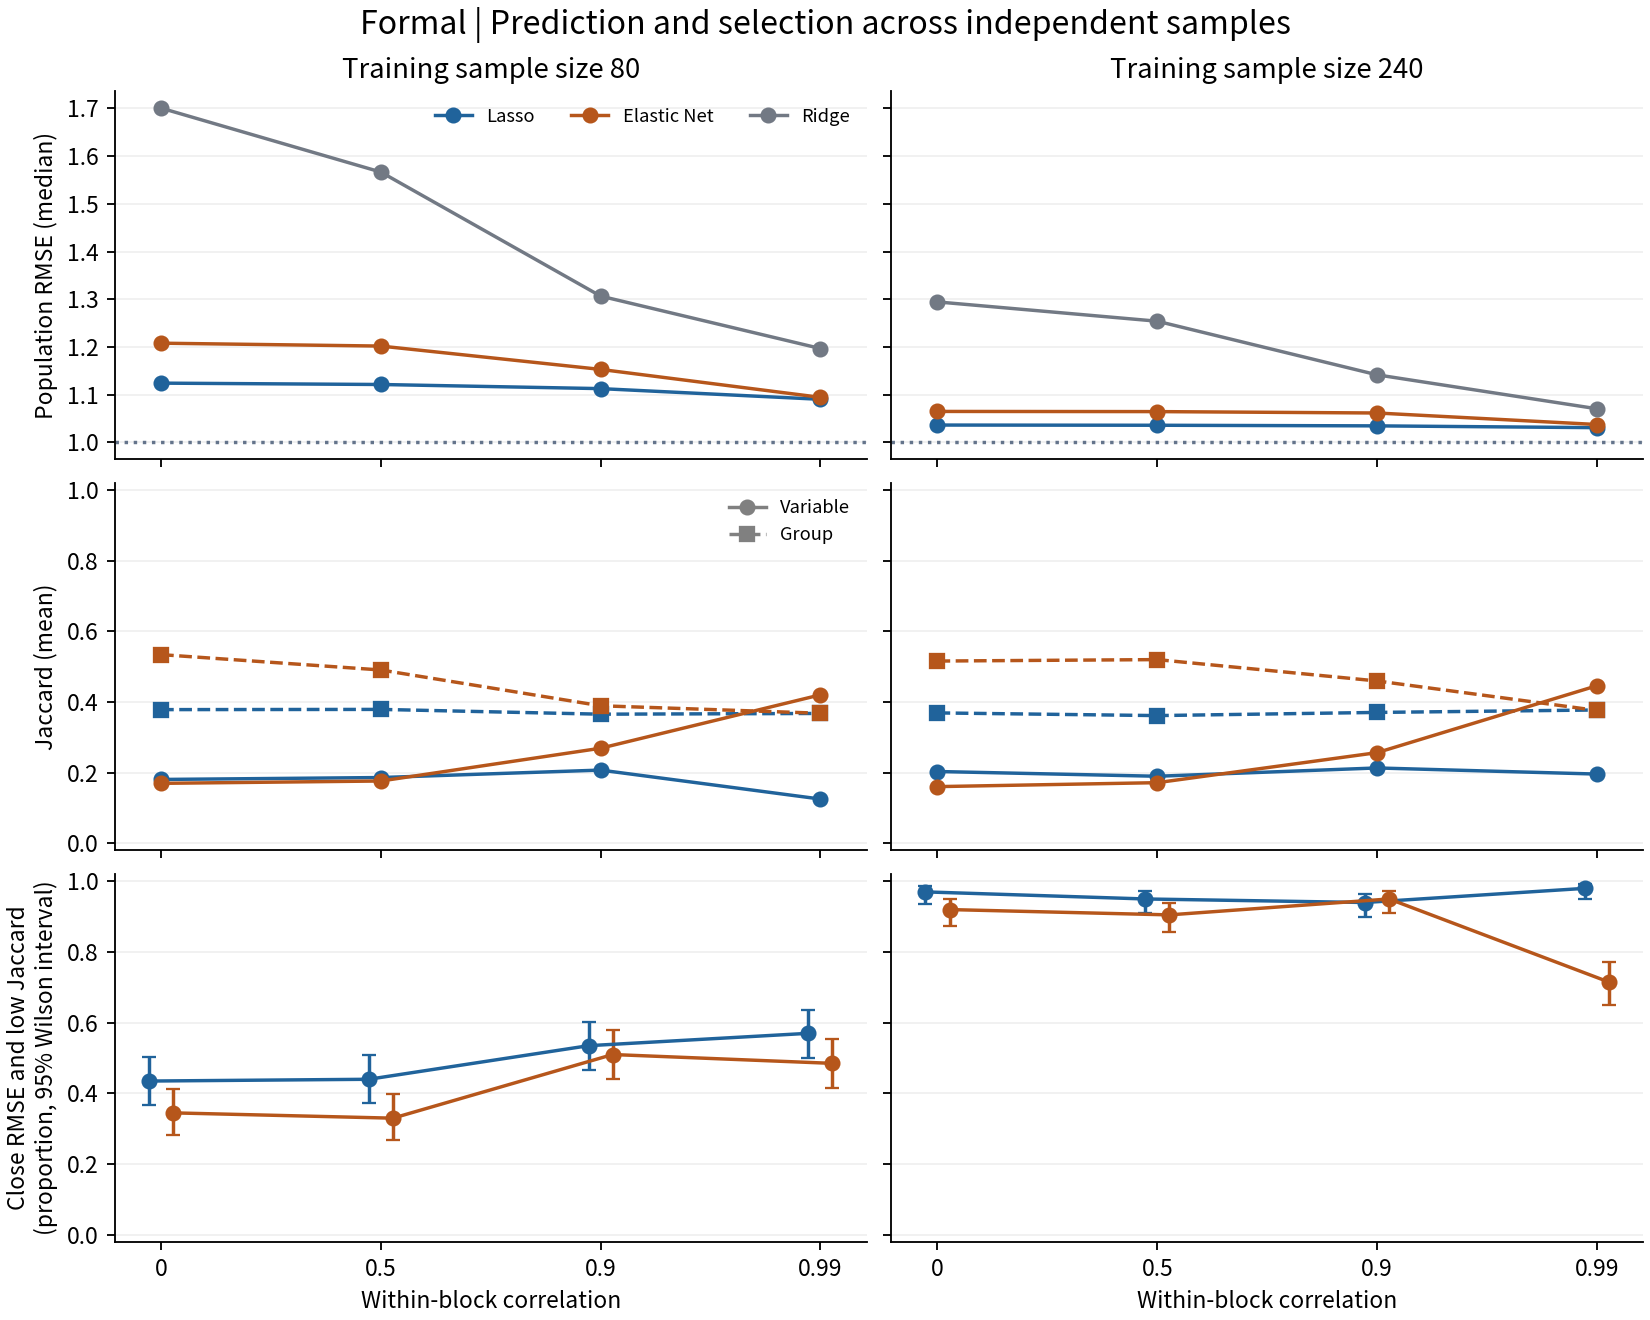
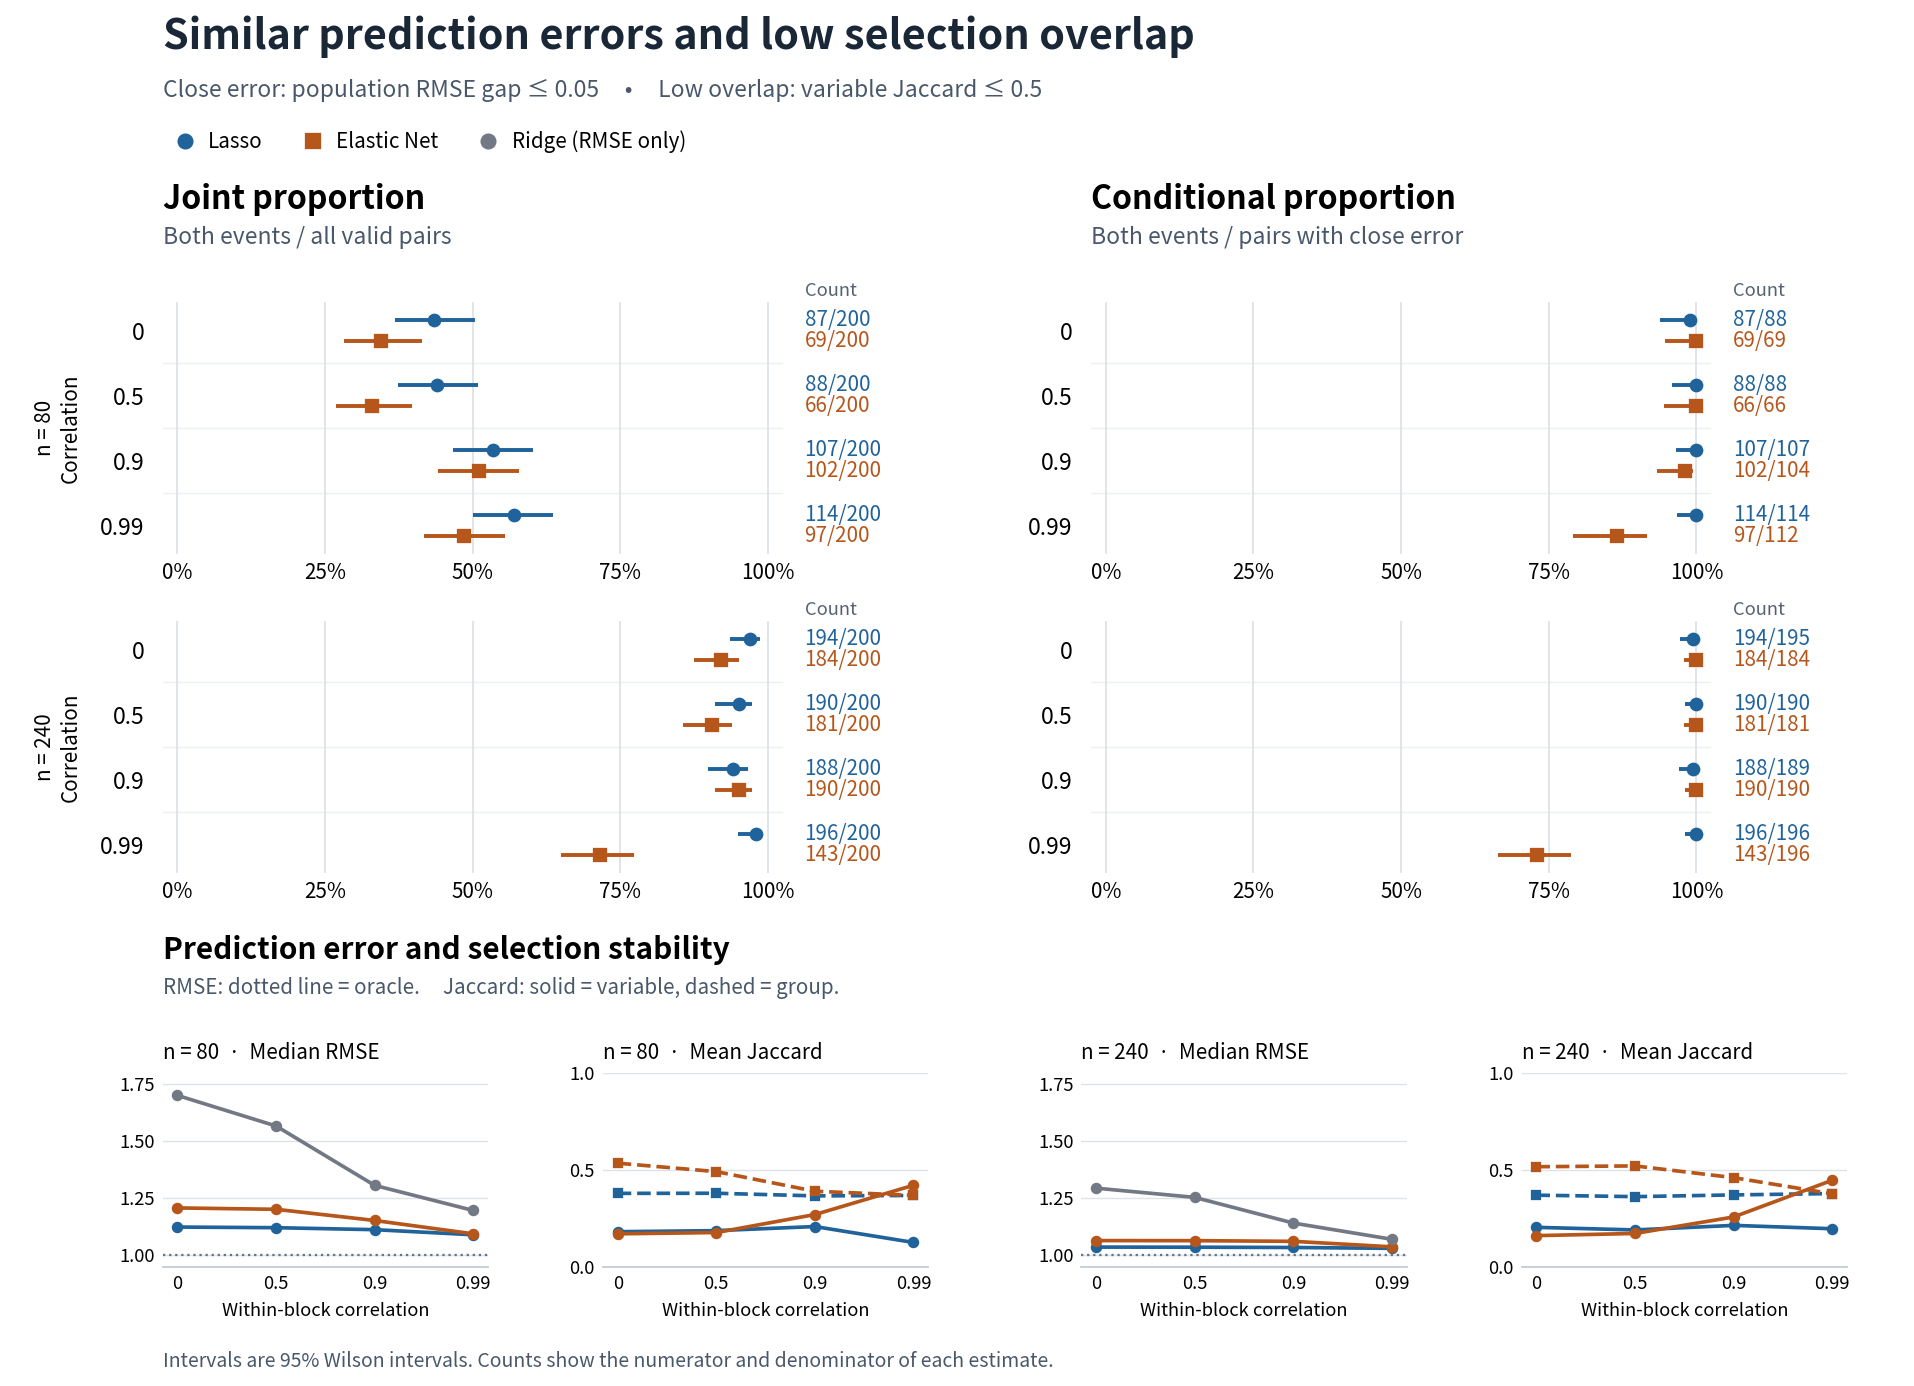
Show joint and conditional probabilities side by side with counts

diff --git a/src/main_figure.py b/src/main_figure.py
@@ -1,0 +1,123 @@
+"""Render the formal figure from its condition table, with explicit event denominators."""
+import argparse
+from pathlib import Path
+
+import matplotlib
+matplotlib.use("Agg")
+import matplotlib.pyplot as plt
+from matplotlib.lines import Line2D
+from matplotlib.ticker import PercentFormatter
+import numpy as np
+import pandas as pd
+
+from common import ROOT
+from summarize import COLORS, wilson
+
+
+METHODS = ("lasso", "elastic")
+RHO = [0, .5, .9, .99]
+RHO_LABELS = ["0", "0.5", "0.9", "0.99"]
+
+
+def event_panel(ax, frame, denominator, show_rho):
+    for method, offset in zip(METHODS, [-.16, .16]):
+        data = frame[frame.method == method].sort_values("rho_signal")
+        for i, row in enumerate(data.itertuples()):
+            hits, total = int(row.both_n), int(getattr(row, denominator))
+            y = i + offset
+            label = f"{hits}/{total}" if total else "0/0 (n.e.)"
+            ax.text(1.035, y, label, transform=ax.get_yaxis_transform(), va="center",
+                    color=COLORS[method], fontsize=9, clip_on=False)
+            if total:
+                rate = hits / total
+                lo, hi = wilson(hits, total)
+                ax.hlines(y, lo, hi, color=COLORS[method], linewidth=1.7)
+                ax.plot(rate, y, "o" if method == "lasso" else "s",
+                        color=COLORS[method], markersize=5)
+    ax.set_xlim(-.025, 1.025)
+    ax.set_ylim(3.44, -.44)
+    ax.set_xticks([0, .25, .5, .75, 1])
+    ax.xaxis.set_major_formatter(PercentFormatter(xmax=1, decimals=0))
+    ax.set_yticks(range(4), RHO_LABELS)
+    ax.tick_params(axis="y", labelleft=show_rho, length=0, pad=8)
+    ax.tick_params(axis="x", length=0, labelsize=9)
+    ax.grid(axis="x", color="#d9dfe6", lw=.7)
+    for y in [.5, 1.5, 2.5]:
+        ax.axhline(y, color="#eef1f4", lw=.65, zorder=0)
+    ax.text(1.035, 1.025, "Count", transform=ax.transAxes, color="#536170", fontsize=8)
+    ax.set_axisbelow(True)
+    ax.spines[:].set_visible(False)
+
+
+def diagnostics(ax, frame, metric):
+    for method in (*METHODS, "ridge"):
+        z = frame[frame.method == method].sort_values("rho_signal")
+        if metric == "rmse":
+            ax.plot(range(4), z.rmse_q50, "o-", lw=1.6, ms=4, color=COLORS[method])
+        elif method in METHODS:
+            ax.plot(range(4), z.j_var_mean, "o-", lw=1.6, ms=4, color=COLORS[method])
+            ax.plot(range(4), z.j_group_mean, "s--", lw=1.6, ms=3.5, color=COLORS[method])
+    if metric == "rmse":
+        ax.set_ylim(.95, 1.8)
+        ax.set_yticks([1, 1.25, 1.5, 1.75])
+        ax.axhline(1, ls=":", color="#64748b", lw=1)
+    else:
+        ax.set_ylim(0, 1)
+        ax.set_yticks([0, .5, 1])
+    ax.set_xticks(range(4), RHO_LABELS)
+    ax.set_xlabel("Within-block correlation", fontsize=8)
+    ax.tick_params(labelsize=8, length=0)
+    ax.grid(axis="y", color="#dee3e8", lw=.6)
+    ax.spines[["top", "right", "left"]].set_visible(False)
+    ax.spines["bottom"].set_color("#c5cdd5")
+
+
+def plot_formal(frame, destination):
+    equal = frame[frame.rho_signal == frame.rho_null]
+    for n in (80, 240):
+        for method in (*METHODS, "ridge"):
+            subset = equal[(equal.n == n) & (equal.method == method)]
+            if sorted(subset.rho_signal) != RHO:
+                raise ValueError(f"Missing or duplicate formal conditions for {n}, {method}")
+    fig = plt.figure(figsize=(11.6, 8.4), facecolor="white")
+    fig.text(.085, .965, "Similar prediction errors and low selection overlap",
+             fontsize=18, weight="bold", color="#192736")
+    fig.text(.085, .93, "Close error: population RMSE gap ≤ 0.05     •     Low overlap: variable Jaccard ≤ 0.5",
+             fontsize=10, color="#48586a")
+    handles = [Line2D([], [], color=COLORS[m], marker=k, linestyle="none",
+                      label=t, markersize=6) for m, k, t in
+               [("lasso", "o", "Lasso"), ("elastic", "s", "Elastic Net"), ("ridge", "o", "Ridge (RMSE only)")]]
+    fig.legend(handles=handles, loc="upper left", bbox_to_anchor=(.076, .919),
+               frameon=False, ncol=3, handletextpad=.15, columnspacing=1.4, fontsize=9)
+    for left, title, subtitle in [(.085, "Joint proportion", "Both events / all valid pairs"),
+                                  (.57, "Conditional proportion", "Both events / pairs with close error")]:
+        fig.text(left, .849, title, fontsize=14, weight="bold")
+        fig.text(left, .824, subtitle, fontsize=10, color="#48586a")
+    for n, bottom in [(80, .60), (240, .37)]:
+        part = equal[equal.n == n]
+        for col, (left, denom) in enumerate([(.085, "total"), (.57, "close_n")]):
+            ax = fig.add_axes([left, bottom, .324, .182])
+            event_panel(ax, part, denom, show_rho=True)
+            if col == 0:
+                ax.set_ylabel(f"n = {n}\nCorrelation", fontsize=9, labelpad=8)
+    fig.text(.085, .308, "Prediction error and selection stability", fontsize=13, weight="bold")
+    fig.text(.085, .283, "RMSE: dotted line = oracle.     Jaccard: solid = variable, dashed = group.",
+             fontsize=9, color="#48586a")
+    for n, left in [(80, .085), (240, .565)]:
+        for metric, dx, title in [("rmse", 0, "Median RMSE"), ("jaccard", .230, "Mean Jaccard")]:
+            ax = fig.add_axes([left+dx, .086, .17, .14])
+            diagnostics(ax, equal[equal.n == n], metric)
+            ax.set_title(f"n = {n}  ·  {title}", fontsize=9, loc="left", pad=6)
+    fig.text(.085, .014, "Intervals are 95% Wilson intervals. Counts show the numerator and denominator of each estimate.",
+             fontsize=8.5, color="#48586a")
+    fig.savefig(destination, dpi=165)
+    plt.close(fig)
+
+
+if __name__ == "__main__":
+    default = ROOT / "results/formal/main"
+    parser = argparse.ArgumentParser(description=__doc__)
+    parser.add_argument("--conditions", type=Path, default=default / "conditions.csv")
+    parser.add_argument("--output", type=Path, default=default / "simulation.png")
+    args = parser.parse_args()
+    plot_formal(pd.read_csv(args.conditions), args.output)

diff --git a/src/formal_tables.py b/src/formal_tables.py
@@ -6,7 +6,8 @@ import pandas as pd
 
 from common import ROOT
 from formal import STAGES,load_config
-from summarize import sim_tables,sim_plot,credit_tables,save,wilson
+from main_figure import plot_formal
+from summarize import sim_tables,credit_tables,save,wilson
 
 
 def endpoint_table(p):
@@ -42,4 +43,4 @@ if __name__=="__main__":
             p=pd.read_csv(out/"pairs.csv")
             table=endpoint_table(p)
             if not table.empty: save(table,out,"endpoint_contrasts")
-            if stage=="main": sim_plot(s,out,"Formal")
+            if stage=="main": plot_formal(s,out/"simulation.png")

diff --git a/docs/review.md b/docs/review.md
@@ -6,7 +6,7 @@ Junyang selected the question and authorized the frozen design. At his request, 
 
 Each of the three unit signal coefficients multiplies a standardized variable from a different independent block. Their variances add to 3 for every within-block correlation. The oracle population RMSE is 1. At training size 80, the two extra controls change correlation only in the signal blocks or only in the null blocks. Their Lasso joint-event counts were 74/199 and 95/200, respectively, compared with 87/200 at independence and 107/200 when all blocks had correlation 0.9. The signal-only denominator records one failed Lasso path. [Frozen design](../config/frozen.json) · [Condition table](../results/formal/condition_summary.md)
 
-We checked the figure against the underlying counts. At training size 80, 87/88 close-risk Lasso pairs at independence and 107/107 at correlation 0.9 had low variable overlap. The lower-left panel thus rises from 43.5% to 53.5% mostly because more pairs satisfied the risk criterion. At size 240 the analogous joint frequencies were 97.0% and 94.0%. At size 80 and correlation 0.99, both fits found every signal block, yet whole-model group Jaccard averaged only 0.368 as different null groups entered. Variable Jaccard averaged 0.126. The figure and the condition table answer different parts of the question about recovery. [Figure 1](../results/formal/main/simulation.png) · [Conditional counts](../results/formal/main/thresholds.csv) · [Mechanism counts](../results/formal/mechanisms.csv)
+We checked the figure against the underlying counts. At training size 80, 87/88 close-risk Lasso pairs at independence and 107/107 at correlation 0.9 had low variable overlap. The joint proportion thus rises from 43.5% to 53.5% mostly because more pairs satisfied the risk criterion. At size 240 the analogous joint frequencies were 97.0% and 94.0%. At size 80 and correlation 0.99, both fits found every signal block, yet whole-model group Jaccard averaged only 0.368 as different null groups entered. Variable Jaccard averaged 0.126. The figure and the condition table answer different parts of the question about recovery. [Figure 1](../results/formal/main/simulation.png) · [Conditional counts](../results/formal/main/thresholds.csv) · [Mechanism counts](../results/formal/mechanisms.csv)
 
 ## What the robustness checks establish
 

diff --git a/docs/report.md b/docs/report.md
@@ -20,7 +20,7 @@ to population MSE, since the independent noise cross-term has expectation zero. 
 
 ![Formal simulation across the two sample sizes](../results/formal/main/simulation.png)
 
-**Figure 1.** Columns give training sample size. Rows show median population RMSE, mean variable and group Jaccard, and the joint-event proportion with a 95% Wilson interval. Each equal-correlation cell contains 200 independent pairs. The dotted reference is oracle RMSE. The four correlation levels are shown as ordered categories. [Full condition table including both mechanism controls](../results/formal/condition_summary.md)
+**Figure 1.** Each dot and interval estimates a proportion across independent training pairs (95% Wilson interval). The joint column divides the number of close-error, low-overlap pairs by all valid pairs. The conditional column divides the same numerator by the number with close error. The count beside each dot gives its exact numerator and denominator. Rows separate training samples of size 80 and 240. The bottom panels give median population RMSE and mean variable and group Jaccard. [Full condition table](../results/formal/condition_summary.md)
 
 At $n=80$, the Lasso joint event occurred in 87/200, 88/200, 107/200 and 114/200 pairs at correlations 0, 0.5, 0.9 and 0.99. The prespecified 0.9-minus-0 contrast was **+10.0 percentage points** (95% interval +0.2 to +19.5). Among pairs with close RMSE, low overlap occurred in 87/88 at zero correlation and 107/107 at 0.9. The change in joint frequency therefore mainly tracked how often the RMSEs were close. At $n=240$ the four joint counts were 194, 190, 188 and 196 out of 200. The prespecified contrast was **−3.0 points** (−7.5 to +1.2). The binary event was near its ceiling. Shrinking the RMSE tolerance to 0.02 yielded 123/200 versus 116/200 at 0 and 0.9 in this larger sample. [Endpoint contrasts](../results/formal/main/endpoint_contrasts.csv) · [Threshold sensitivities](../results/formal/main/thresholds.csv)
 

diff --git a/README.md b/README.md
@@ -13,7 +13,7 @@ How often do two independent training samples yield models with similar predicti
 
 ![Prediction and selection across independently trained models](results/formal/main/simulation.png)
 
-**Figure 1.** Each column corresponds to a training size. The upper row shows median population RMSE with oracle RMSE at one. The middle row gives mean variable and group Jaccard. The lower row shows the probability of an RMSE gap at most 0.05 and variable Jaccard at most 0.5, with a 95% Wilson interval. The horizontal positions represent four ordered correlation settings.
+**Figure 1.** Each dot and interval estimates a proportion across independent training pairs (95% Wilson interval). The joint column divides the number of close-error, low-overlap pairs by all valid pairs. The conditional column divides the same numerator by the number with close error. The count beside each dot gives its exact numerator and denominator. Rows separate training samples of size 80 and 240. The bottom panels give median population RMSE and mean variable and group Jaccard.
 
 ## Study record
 
